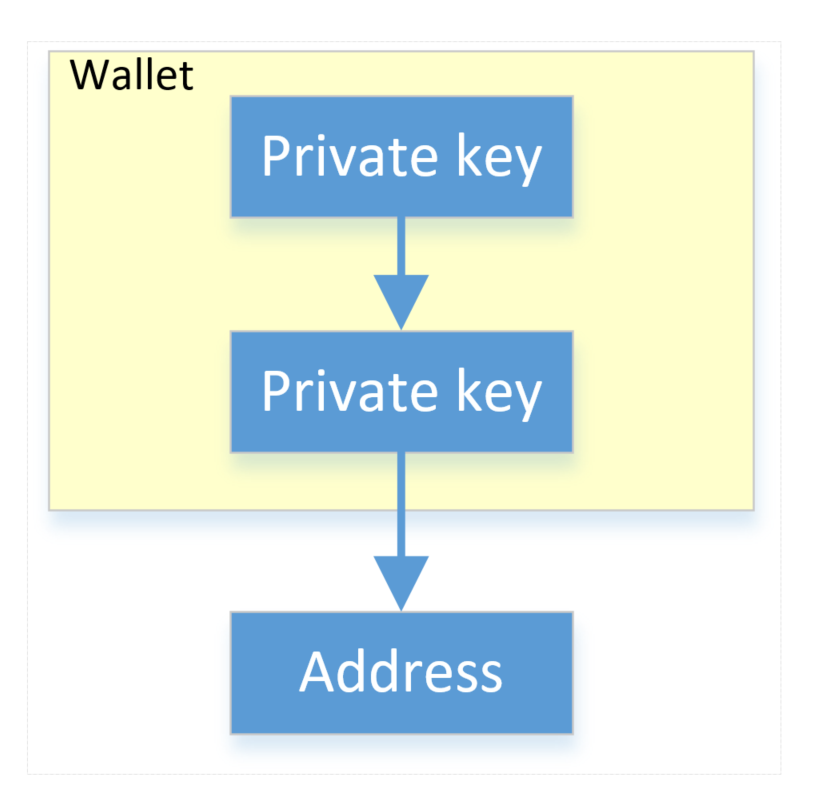
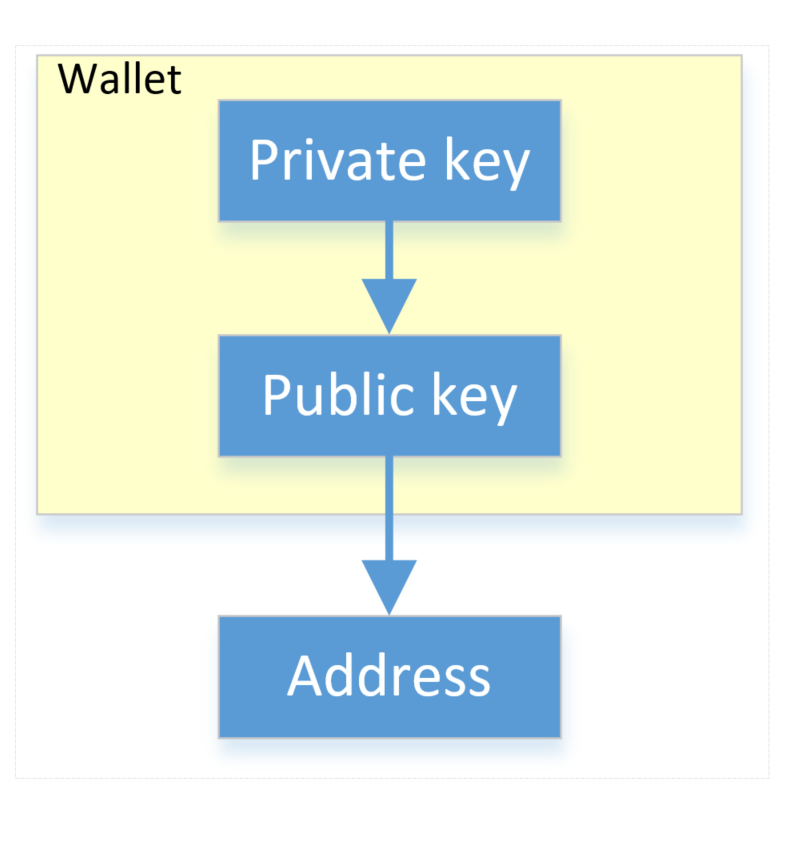
img add

Changed region(s): [[0.0305, 0.0602, 0.9454, 0.9624]]

diff --git a/README.md b/README.md
@@ -10,5 +10,11 @@
 
 The wallet module is used to create the identity of the participant using the Elliptic Curve Digital Signature Algorithm(ECDSA). The details of the ECDSA can be learned from this [website](https://www.certicom.com/content/certicom/en/10-introduction.html). 
 
-The identity(wallet) mainly consists of the private key and public key. The public is derived from the the private key and can be distributed to other entities. The private key is used to sign the transactions or blocks. <img src="./imgs/wallet_1.png" alt="wallet_1" style="zoom:50%;" />
+As show in the following picture, the main function of the wallet is to generate the identity of the participant. The identity is a string which is called *address*. The address is hash of the public key. The private key and public key pair is generated using the Elliptic Curve Digital Signature Algorithm(ECDSA). The details of the ECDSA can be learned from this [website](https://www.certicom.com/content/certicom/en/10-introduction.html). The public is derived from the the private key and can be distributed to other entities. The private key is used to sign the transactions or blocks. 
+
+ <img src="./imgs/wallet_1.png" alt="wallet_1" style="zoom:50%;" />
+
+The details of the address generation is shown as following:
+
+<img src="./imgs/wallet_2.png" alt="wallet_2"  />
 
